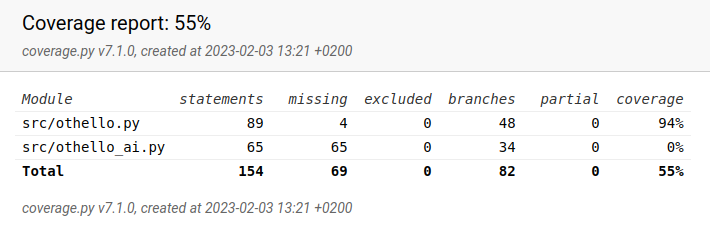
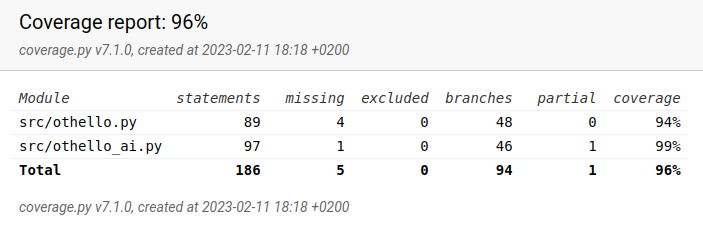
Täydennä dokumentaatiota

diff --git a/dokumentaatio/testausdokumentti.md b/dokumentaatio/testausdokumentti.md
@@ -2,12 +2,28 @@
 
 ![Testikattavuusraportti](testikattavuusraportti.png)
 
-Sovelluksessa on tehty yksikkötestaus tiedostosta othello.py, jossa sijaitsee pelin toteuttava luokka Othello.
-Kirjoitushetkellä kaikki muu on testattu paitsi pelilaudan tulostava funktio.
-Käytössä on luokka PelilautaStub, josta haetaan testiluokan käyttöön erilaisia pelilautoja eli pelitilanteita.
-Pelilautojen ja mahdollisten siirtojen avulla testataan erilaisia skenaarioita 
-ja tutkitaan, toimivatko luokan Othello funktiot ennakoidulla tavalla.
+Sovelluksessa on tehty yksikkötestaus tiedostoista othello.py sekä othello_ai.py.
+Niissä sijaitsevat pelin toteuttava luokka Othello ja tekoälyn toteuttava luokka OthelloAI.
+Molempien käytössä on luokka PelilautaStub, josta haetaan testien käyttöön erilaisia pelilautoja eli pelitilanteita.
+Pelilautojen ja mahdollisten siirtojen avulla testataan erilaisia skenaarioita
+ja tutkitaan, toimivatko funktiot ennakoidulla tavalla.
+Pelitilanteiden ei ole tarkoitus olla sinänsä realistisia vaan testata funktioita eri näkökulmista.
 
-Tällä hetkellä pystyn ajamaan testit ja luomaan kattavuusraportin virtuaaliympäristössä komennolla coverage run --branch -m pytest; coverage html.
-Myöhemmin testien (ja yleensäkin ohjelman) ajamisesta tulee ohje githubiin.
-Raporttiin kuuluvat tiedostot othello.py ja othello_ai.py, mutta vain othello.py on toistaiseksi testattu.
+Luokasta Othello on ainakin haaraumakattavuuden suhteen testattu kaikki muu paitsi pelilaudan tulostava funktio.
+Testeissä on pyritty ottamaan huomioon erilaisia tilanteita, kuten
+yhden tai useamman nappulan kääntämistä ja pelilaudan kulmapaikkojen läpikäyntiä.
+
+OthelloAI:n testeissä on rakennettu pelitilanteita, joista odotetaan tiettyä tulosta minimax-algoritmilta.
+Testeissä tutkitaan esimerkiksi, tunnistaako algoritmi nopeamman voiton hitaammasta
+ja valitseeko se tasapelin tappion sijaan. Tutkitaan siis, onko algoritmin palauttama siirto todella paras.
+Sellaisia pelitilanteita ei arvioida, joihin ei liity voitto tai tappio,
+sillä niiden hyvyyttä ei edes voida varmuudella arvioida.
+Pelilaudan tilanteet ovat yksinkertaisia paitsi siksi, että niiden muodostaminen on haastavaa,
+niin myös siksi, että niiden on hyvä olla suhteellisen helposti ihmisen todennettavissa.
+PelilautaStubiin on kommentoitu siirtosarjoja tilanteiden lukemisen helpottamiseksi.
+
+Testit pystyy ajamaan käyttöohjeessa kerrotulla komennolla, ja halutessaan voi luoda kattavuusraportin.
+Kattavuusraporttia voi tarkastella myös painamalla codecov-merkkiä,
+joka sijaitsee projektin GitHub-sivulla README-tiedoston yläosassa.
+Joskus on tosin käynyt niinkin, että yhteyden muodostaminen ei onnistunut. 
+

diff --git a/dokumentaatio/viikkoraportti4.md b/dokumentaatio/viikkoraportti4.md
@@ -1,0 +1,31 @@
+# Viikkoraportti4
+
+Ensimmäisiä muutoksia tällä viikolla oli siirtojen järjestäminen alfa-beeta-karsinnan tehostamiseksi.
+Siirrot järjestetään valitse_siirto-funktiossa siten, että vähiten vastustajan nappuloita kääntävät siirrot ovat ensiksi.
+Lukemani mukaan tämä on usein paras taktiikka, vaikka loppuvaiheessa yritetäänkin vallata vastustajan nappulat.
+
+Aloitin OthelloAI-luokan testaamisen ja huomasin, että jokin meni koko ajan pieleen tekoälyn toiminnassa.
+Yhdeksi syylliseksi osoittautui vähän yllättäenkin pelilaudan kopioiminen,
+joten tee_siirto_ja_kopioi_othello-funktiossa on ainakin tällä hetkellä massiivinen kopiointirumba virheen välttämiseksi.
+
+Havaitsin toiseksi ongelmaksi sen, että tekoäly ei osannut reagoida sellaiseen tilanteeseen,
+jossa pelaaja1 tekee siirron, pelaaja2 ei pysty tekemään siirtoa ja pelaaja1 jatkaa sen jälkeen, ehkä jopa voittosiirrolla.
+Pelkkä heuristinen arvio olisi nähdäkseni tässä kohtaa riittämätön,
+sillä pelaaja1:lle on edullista ja myös sääntöjen mukaista jatkaa peliä.
+Olenkin pyrkinyt ottamaan tilanteen huomioon siten, että jos pelaajalla ei ole siirtoja, käydään läpi vastustajan siirtoja.
+
+Minimax-parannusten jälkeen nostin testikattavuutta ja päivitin dokumentaatiota monin tavoin.
+Opin minimaxin testaamisesta muun muassa, että varmuudella voidaan tietää vain paras siirto 
+ja erityisasemassa ovat voitot ja tappiot. 
+Pelin tulee pyrkiä voittamaan nopeasti ja häviämään hitaasti. 
+Tämä selkeytti testaamista, vaikka olenkin sen suhteen yhä epävarma.
+
+Ensi viikolla voisin ainakin toteuttaa iteratiivisen syvenemisen sekä täydentää dokumentaatiota.
+En kuitenkaan tiedä, mitä iteratiivisella syvenemisellä haetaan, joten voisinko saada siihen neuvoa?
+Saan sen käsityksen, että osittain asia liittyy siihen, että minimax laskee siirtoja niin syvälle kuin se ehtii asetetussa aikarajassa.
+Materiaalissa tähän kuitenkin liitetään myös siirtojen järjestäminen 
+ja lisäksi mainitaan, että riippuu tapauksesta, "miltä syvyydeltä kannattaa aloittaa".
+En siis ymmärrä, mitä kokonaisuudessaan haetaan.
+
+Käytetty työaika 15h
+

diff --git a/dokumentaatio/toteutusdokumentti.md b/dokumentaatio/toteutusdokumentti.md
@@ -1,0 +1,24 @@
+# Toteutusdokumentti
+
+Othello-ohjelman toteutus jakautuu kolmeen luokkaan: UI, Othello ja OthelloAI.
+Näiden lisäksi on tiedosto index,py, josta peli käynnistetään.
+Käyttöliittymä sijaitsee luokassa UI, ja siellä tapahtuu kommunikointi käyttäjän kanssa
+ja yleensäkin peliä pyörittävä silmukka.
+Luokassa Othello on pelin tarvitsemat toiminnot, 
+kuten mahdollisten siirtojen hakeminen, siirron toteutus ja pelitilanteen laskeminen.
+OthelloAI on minimax-tekoälyn toteuttava luokka.
+Sovelluksessa tekoäly pelaa valkoista (joka on tekstikäyttöliittymässä "o").
+
+Sovelluksessa yksikkötestataan luokkia Othello ja OthelloAI.
+Testit hyödyntävät luokkaa PelilautaStub, jossa on erilaisia pelilautoja tilanteiden tutkimiseksi.
+
+Algoritmin aikavaativuus on eksponentiaalinen suhteessa laskennan syvyyteen.
+Erityisiä tietorakenteita ei esim. listojen lisäksi tarvita.
+
+Työtä voisi parantaa ainakin lisäämällä iteratiivisen syvenemisen sen sijaan,
+että lasketaan aina jollekin kiinteälle syvyydelle.
+
+
+## Lähteet
+
+[Minimax-pelit](https://tiralabra.github.io/2023_p3/fi/aiheet/minimax.pdf)

diff --git a/dokumentaatio/kayttoohje.md b/dokumentaatio/kayttoohje.md
@@ -1,0 +1,31 @@
+# Käyttöohje
+
+Ohjeissa oletetaan, että koneelle on asennettu poetry ja vähintään Pythonin versio 3.8.
+
+### Asennus
+
+1. Kloonaa projekti komennolla:
+> git clone git@github.com:annehavunen/othello-ratkaisija.git
+
+2. Siirry kansion sisään. Asenna riippuvuudet komennolla:
+> poetry install
+
+### Ohjelman suorittaminen
+
+Ohjelman pystyy suorittamaan komennolla:
+>poetry run python3 src/index.py
+
+### Testaaminen
+
+Testit suoritetaan komennolla:
+>poetry run coverage run --branch -m pytest
+
+Testikattavuuden voi generoida komennolla:
+>poetry run coverage html
+
+Raportti generoituu *htmlcov*-hakemistoon.
+
+### Pylint
+
+Tiedoston [.pylintrc](https://github.com/annehavunen/othello-ratkaisija/blob/master/.pylintrc) määrittelemät tarkistukset voi suorittaa komennolla:
+>poetry run pylint src
